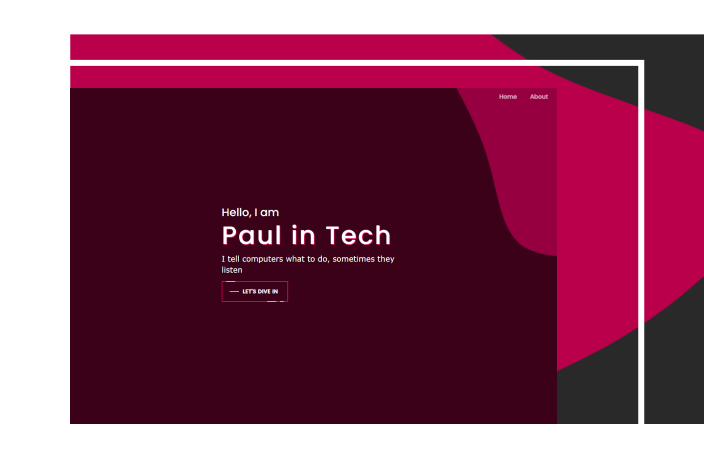
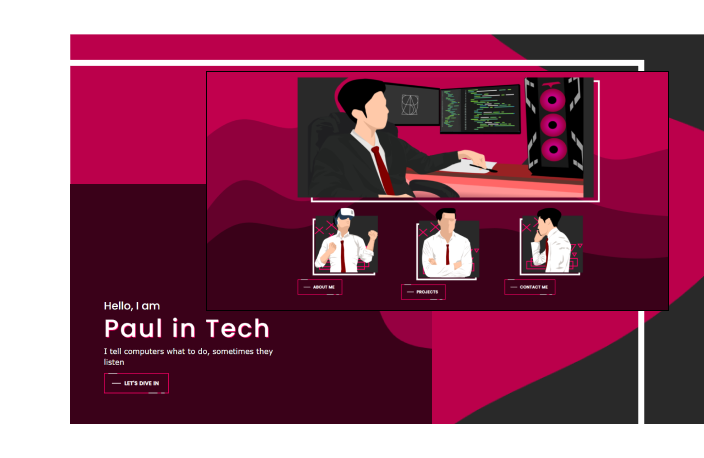
Initial commit for presentation work

diff --git a/index.html b/index.html
@@ -198,7 +198,7 @@
 				-->
 			
 			<h3 class="text-center">“It's easy to tell computers what to do, if they can understand you.”</h3>
-			<div class="row">
+			<div class="row row-bot">
 				<div class="col-md-6 text-center home-projects">
 					<img src="./assets/images/meh/projects-thumb.png" />
 					<a class="fancy options" href="#projects" id="fancy">
@@ -265,7 +265,7 @@
 								<p class="sub">Zuitt Coding Bootcamp is a globally competitive startup offering 8-week full time and 24-week part-time Web Development coding bootcamps in a live online format.</p>
 								<p class="sub">The reason why I joined Zuitt is to have a lifelong career partner that create Opportunities for everyone, everywhere.</p> 
 							</p>
-							<span class="made-with">Made with</span> 
+							<span class="made-with">languages</span> 
 							<div class="row text-center made-with-img">   
 								<div class="col-4">
 									<img src="./assets/images/icons/html5-dark.png" width="50%"/>
@@ -276,7 +276,23 @@
 								<div class="col-4">
 									<img src="./assets/images/icons/js-dark.png" width="50%"/>
 								</div>
-							</div> 
+							</div>  
+							<ul>
+								<table>
+									<tr>
+										<td><li>HTML</li></td> 
+										<td>: 2.5%</td>
+									</tr>
+									<tr>
+										<td><li>CSS</li></td>
+										<td>: 50.6%</td>
+									</tr>
+									<tr>
+										<td><li>JAVASCRIPT</li></td>
+										<td>: 46.9%</td>
+									</tr>
+								</table>
+							</ul> 
 						</div> 
 					</div>
 				</div>  
@@ -291,11 +307,12 @@
 						</div>
 						<div class="p-2">
 							<p class="about-subheading">
-								<p class="sub">I created Axie Tool to help Axie Managers.</p>
-								<p class="sub">Axie Tool can track every details of your scholars.</p>
-								<p class="sub">You can track your earnings, winrate, MMR and a lot more.</p> 
+								<p class="sub">I created Okay Ukay for my small business, way back 2020 when covid pandemic hit.</p>
+								<p class="sub">This enables me to track accurately all of my progress.</p>
+								<p class="sub">Eventually after a profitable journey, Okay Ukay was sold.</p>
+								<p class="sub">After that I founded <a href="https://scontent.fmnl4-2.fna.fbcdn.net/v/t1.6435-9/167670359_142670067772412_6536540092031709675_n.jpg?_nc_cat=105&ccb=1-5&_nc_sid=730e14&_nc_ohc=Yv8u51tw_OwAX8x4uVx&tn=_n5SGTq6qr5opBXV&_nc_ht=scontent.fmnl4-2.fna&oh=a397535981df54463545f6db9c86ac10&oe=61CADE19" target="_new">Treasures.ph</a> which is my <a href="https://video.fmnl4-6.fna.fbcdn.net/v/t42.1790-2/168273735_1108284353018260_4361376575804074419_n.mp4?_nc_cat=107&ccb=1-5&_nc_sid=985c63&efg=eyJybHIiOjMwMCwicmxhIjo1MTIsInZlbmNvZGVfdGFnIjoic3ZlX3NkIn0%3D&_nc_ohc=7_f4TrXMCJMAX8iYqzh&rl=300&vabr=111&_nc_ht=video.fmnl4-6.fna&oh=d228054e707fd58e8138581b99bf7993&oe=61A3C8B6" target="_new">3D printing business</a>.</p> 
 							</p>
-							<span class="made-with">Made with</span> 
+							<span class="made-with">languanges</span> 
 							<div class="row text-center made-with-img">   
 								<div class="col-3">
 									<img src="./assets/images/icons/html5-dark.png" width="50%"/>
@@ -312,19 +329,39 @@
 							</div> 
 						</div> 
 					</div>
+					<ul class="ul-axie">
+						<table>
+							<tr>
+								<td><li>HTML</li></td> 
+								<td>: 5.5%</td>
+							</tr>
+							<tr>
+								<td><li>CSS</li></td>
+								<td>: 30.6%</td>
+							</tr>
+							<tr>
+								<td><li>PHP</li></td>
+								<td>: 46.9%</td>
+							</tr>
+							<tr>
+								<td><li>JAVASCRIPT</li></td>
+								<td>: 17.0%</td>
+							</tr>
+						</table>
+					</ul> 
 				</div>  
 				<div class="col-lg-6">
-					<img src="./assets/images/projects/axie-cover.png" width="100%"/>
+					<img src="./assets/images/projects/ukay.png" width="100%"/>
 				</div> 
 			</div>
 		</div>
 		<div class="container axie cp">
 			<div class="row"> 
 				<div class="col-lg-6">
-					<img src="./assets/images/projects/axie-cover.png" width="100%"/>
+					<img src="./assets/images/projects/ukay.png" width="100%"/>
 				</div> 
 				<div class="col-lg-6">
-					<div class="d-flex flex-column"> 
+					<div class="d-flex flex-column" style="padding-left: 15px;"> 
 						<div class="p-2 about-heading"  >
 							<h1><span class="projects-axie projects-heading-2"></span></h1>
 						</div>
@@ -334,7 +371,7 @@
 								<p class="sub">Axie Tool can track every details of your scholars.</p>
 								<p class="sub">You can track your earnings, winrate, MMR and a lot more.</p> 
 							</p>
-							<span class="made-with">Made with</span> 
+							<span class="made-with">languanges</span> 
 							<div class="row text-center made-with-img">   
 								<div class="col-3">
 									<img src="./assets/images/icons/html5-dark.png" width="50%"/>
@@ -349,6 +386,26 @@
 									<img src="./assets/images/icons/php-dark.png" width="50%"/>
 								</div>
 							</div> 
+							<ul class="ul-axie">
+								<table>
+									<tr>
+										<td><li>HTML</li></td> 
+										<td>: 5.5%</td>
+									</tr>
+									<tr>
+										<td><li>CSS</li></td>
+										<td>: 30.6%</td>
+									</tr>
+									<tr>
+										<td><li>PHP</li></td>
+										<td>: 46.9%</td>
+									</tr>
+									<tr>
+										<td><li>JAVASCRIPT</li></td>
+										<td>: 17.0%</td>
+									</tr>
+								</table>
+							</ul> 
 						</div> 
 					</div>
 				</div>  
@@ -385,7 +442,72 @@
 	
 	<!-- Contact section -->
 	<div id="contact">
-		sadasdas
+		<div class="container">
+			<div class="row"> 
+				<div class="col-lg-6">
+					<img src="./assets/images/meh/contact-business.png" width="100%" class="pc"/>
+					<img src="./assets/images/meh/contact-business-mb.png" width="100%" class="cp2"/>
+				</div> 
+				<div class="col-lg-6">
+					<div class="d-flex flex-column"> 
+						<div class="p-2 about-heading"  >
+							<h1><span class="contact-heading"></span><span class="me2-heading"></span></h1>
+						</div>
+						<div class="p-2">
+							<form method="GET" action="#">
+								<div class="mb-3">
+									<label for="exampleFormControlInput1" class="form-label">Full Name</label>
+									<input type="email" class="form-control" id="exampleFormControlInput1" placeholder="John Doe">
+								</div>
+								<div class="mb-3">
+									<label for="exampleFormControlInput1" class="form-label">Email address</label>
+									<input type="email" class="form-control" id="exampleFormControlInput1" placeholder="johndoe@example.com">
+								</div>
+								<div class="mb-3">
+									<label for="exampleFormControlTextarea1" class="form-label">Your message</label>
+									<textarea class="form-control" id="exampleFormControlTextarea1" rows="3" placeholder="Let's talk about business."></textarea>
+								</div>
+								<a class="fancy options" href="#contact" id="fancy">
+									<span class="top-key"></span>
+									<span class="text">send message</span>
+									<span class="bottom-key-1"></span>
+									<span class="bottom-key-2"></span>
+								</a>
+							</form>
+						</div> 
+						<div class="connect">
+							<span class="made-with">connect with me</span> 
+							<a href="https://github.com/impaulintech" target="_new" class="socmed">
+								<img src="./assets/images/icons/github-dark.png" width="10%"/>
+							</a>
+							<a href="https://twitter.com/impaulintech" target="_new" class="socmed">
+								<img src="./assets/images/icons/twitter-dark.png"  width="10%"/>
+							</a>
+							<a href="https://www.linkedin.com/in/impaulintech/" target="_new" class="socmed">
+								<img src="./assets/images/icons/link-dark.png"  width="10%"/>
+							</a>
+						</div>
+						<ul class="ul-axie-contact">
+							<table>
+								<tr>
+									<td><li>My Email</li></td> 
+									<td>: impaulintech@gmail.com</td>
+								</tr>
+								<tr>
+									<td><li>Phone</li></td>
+									<td>: +63 976-2455-493</td>
+								</tr> 
+								<tr>
+									<td><li>Meet Up</li></td>
+									<td>: <a href="https://www.google.com/maps/place/SM+Mall+of+Asia/@14.5349196,120.9823331,18.9z/data=!4m9!1m2!2m1!1smoa!3m5!1s0x3397cbfc84288ed7:0xe842057d2e701f9b!8m2!3d14.5352757!4d120.9826107!15sCgNtb2FaBSIDbW9hkgEPc2hvcHBpbmdfY2VudGVymgEkQ2hkRFNVaE5NRzluUzBWSlEwRm5TVVJuTWt0aGFuVlJSUkFC" target="_new">SM Mall Of Asia</a></td>
+								</tr> 
+							</table>
+						</ul> 
+						<h3 class="text-center">“The purpose of a business is to create a customer, who creates customers.”</h3>
+					</div>
+				</div>  
+			</div>
+		</div>
 	</div>
 
 	<!-- Footer section -->
@@ -423,12 +545,12 @@
 			<!-- <a class="toggle-btn" onclick="alert('Under Development');"><img src="./assets/images/icons/toggle.png" /></a> -->
 		</footer>
 	</div>
+
 	<!-- JavaSscript Zone -->
 	<!-- Bootstrap JS -->
 	<script src="./js/popper.min.js" integrity="sha384-7+zCNj/IqJ95wo16oMtfsKbZ9ccEh31eOz1HGyDuCQ6wgnyJNSYdrPa03rtR1zdB" crossorigin="anonymous"></script>
 	<script src="./js/bootstrap.min.js" integrity="sha384-QJHtvGhmr9XOIpI6YVutG+2QOK9T+ZnN4kzFN1RtK3zEFEIsxhlmWl5/YESvpZ13" crossorigin="anonymous"></script>
 	<script src="https://cdn.jsdelivr.net/npm/bootstrap@5.1.3/dist/js/bootstrap.bundle.min.js" integrity="sha384-ka7Sk0Gln4gmtz2MlQnikT1wXgYsOg+OMhuP+IlRH9sENBO0LRn5q+8nbTov4+1p" crossorigin="anonymous"></script> 
-
 	<!-- Nav Change Background on scroll -->
 	<script
 		src="https://code.jquery.com/jquery-3.5.1.slim.min.js"

diff --git a/css/custom.css b/css/custom.css
@@ -83,12 +83,20 @@ float: right;
 
 .connect {
   border-left: 2px solid white;
-  padding-left: 20px;
+  padding-left: 10px; 
 }
 
 .made-with-img {
   border-left: 3px solid white;
   padding-bottom: 20px; 
+}
+
+.ul-axie {
+  margin-left: 10px;
+}
+
+.ul-axie-contact {
+  padding-left: 16px;
 }
 
 #landing, #home, #contact, #projects, #footer {
@@ -138,7 +146,7 @@ float: right;
     font-size: 45px;  
   }
   .projects-coming-soon::before {
-    font-size: 45px; 
+    font-size: 40px; 
   }
   .languange > div > img {
     padding: 25px 0px 20px 0px;
@@ -152,10 +160,20 @@ float: right;
   }
   .cp2 {
       display: block;
+  } 
+  .ul-axie {
+    margin-left: 0px;
   }
+  
   .landing-page {  
     padding-left: 20px;
   }
+  .contact-heading::before {
+    font-size: 45px;  
+  }
+  .me2-heading::before {
+    font-size: 45px;  
+  } 
 
   #landing {
   	background-image: url('.././assets/images/bg/landing-bg-dark-mb.svg');

diff --git a/css/style.css b/css/style.css
@@ -240,6 +240,10 @@
 h3 {
 	padding: 20px 0 100px 0; 
 }
+
+.row-bot {
+	padding-bottom: 100px;
+}
 /* End About Page  */
 
 /* Project Page Zone */
@@ -279,7 +283,7 @@ h3 {
 	text-shadow: 2px 2px #FF0066;
 }
 .projects-axie::before {
-	content: "Axie tool";
+	content: "Okay ukay";
 	border-bottom: 5px solid #FF0066;
 	text-shadow: 2px 2px #FF0066;
 }
@@ -299,7 +303,7 @@ h3 {
 /* Contact Page Zone */
 #contact {
     color: #fff; 
-	padding: 100px 0;
+	padding: 30px 0;
 	/* Create the parallax scrolling effect */
 	background-image: url('.././assets/images/ligh-bg/bg-final.png');
 	background-attachment: fixed;
@@ -309,6 +313,15 @@ h3 {
 }
  
 
+.contact-heading::before {
+	content: "Contact";
+	border-bottom: 5px solid #FF0066;
+}
+.me2-heading::before {
+	content: " Me";
+	padding-bottom: 20px;
+	border-bottom: 5px solid #FF0066;
+} 
 
 .img {
 	background-image: url('.././assets/images/meh/contact-thumb.png');
